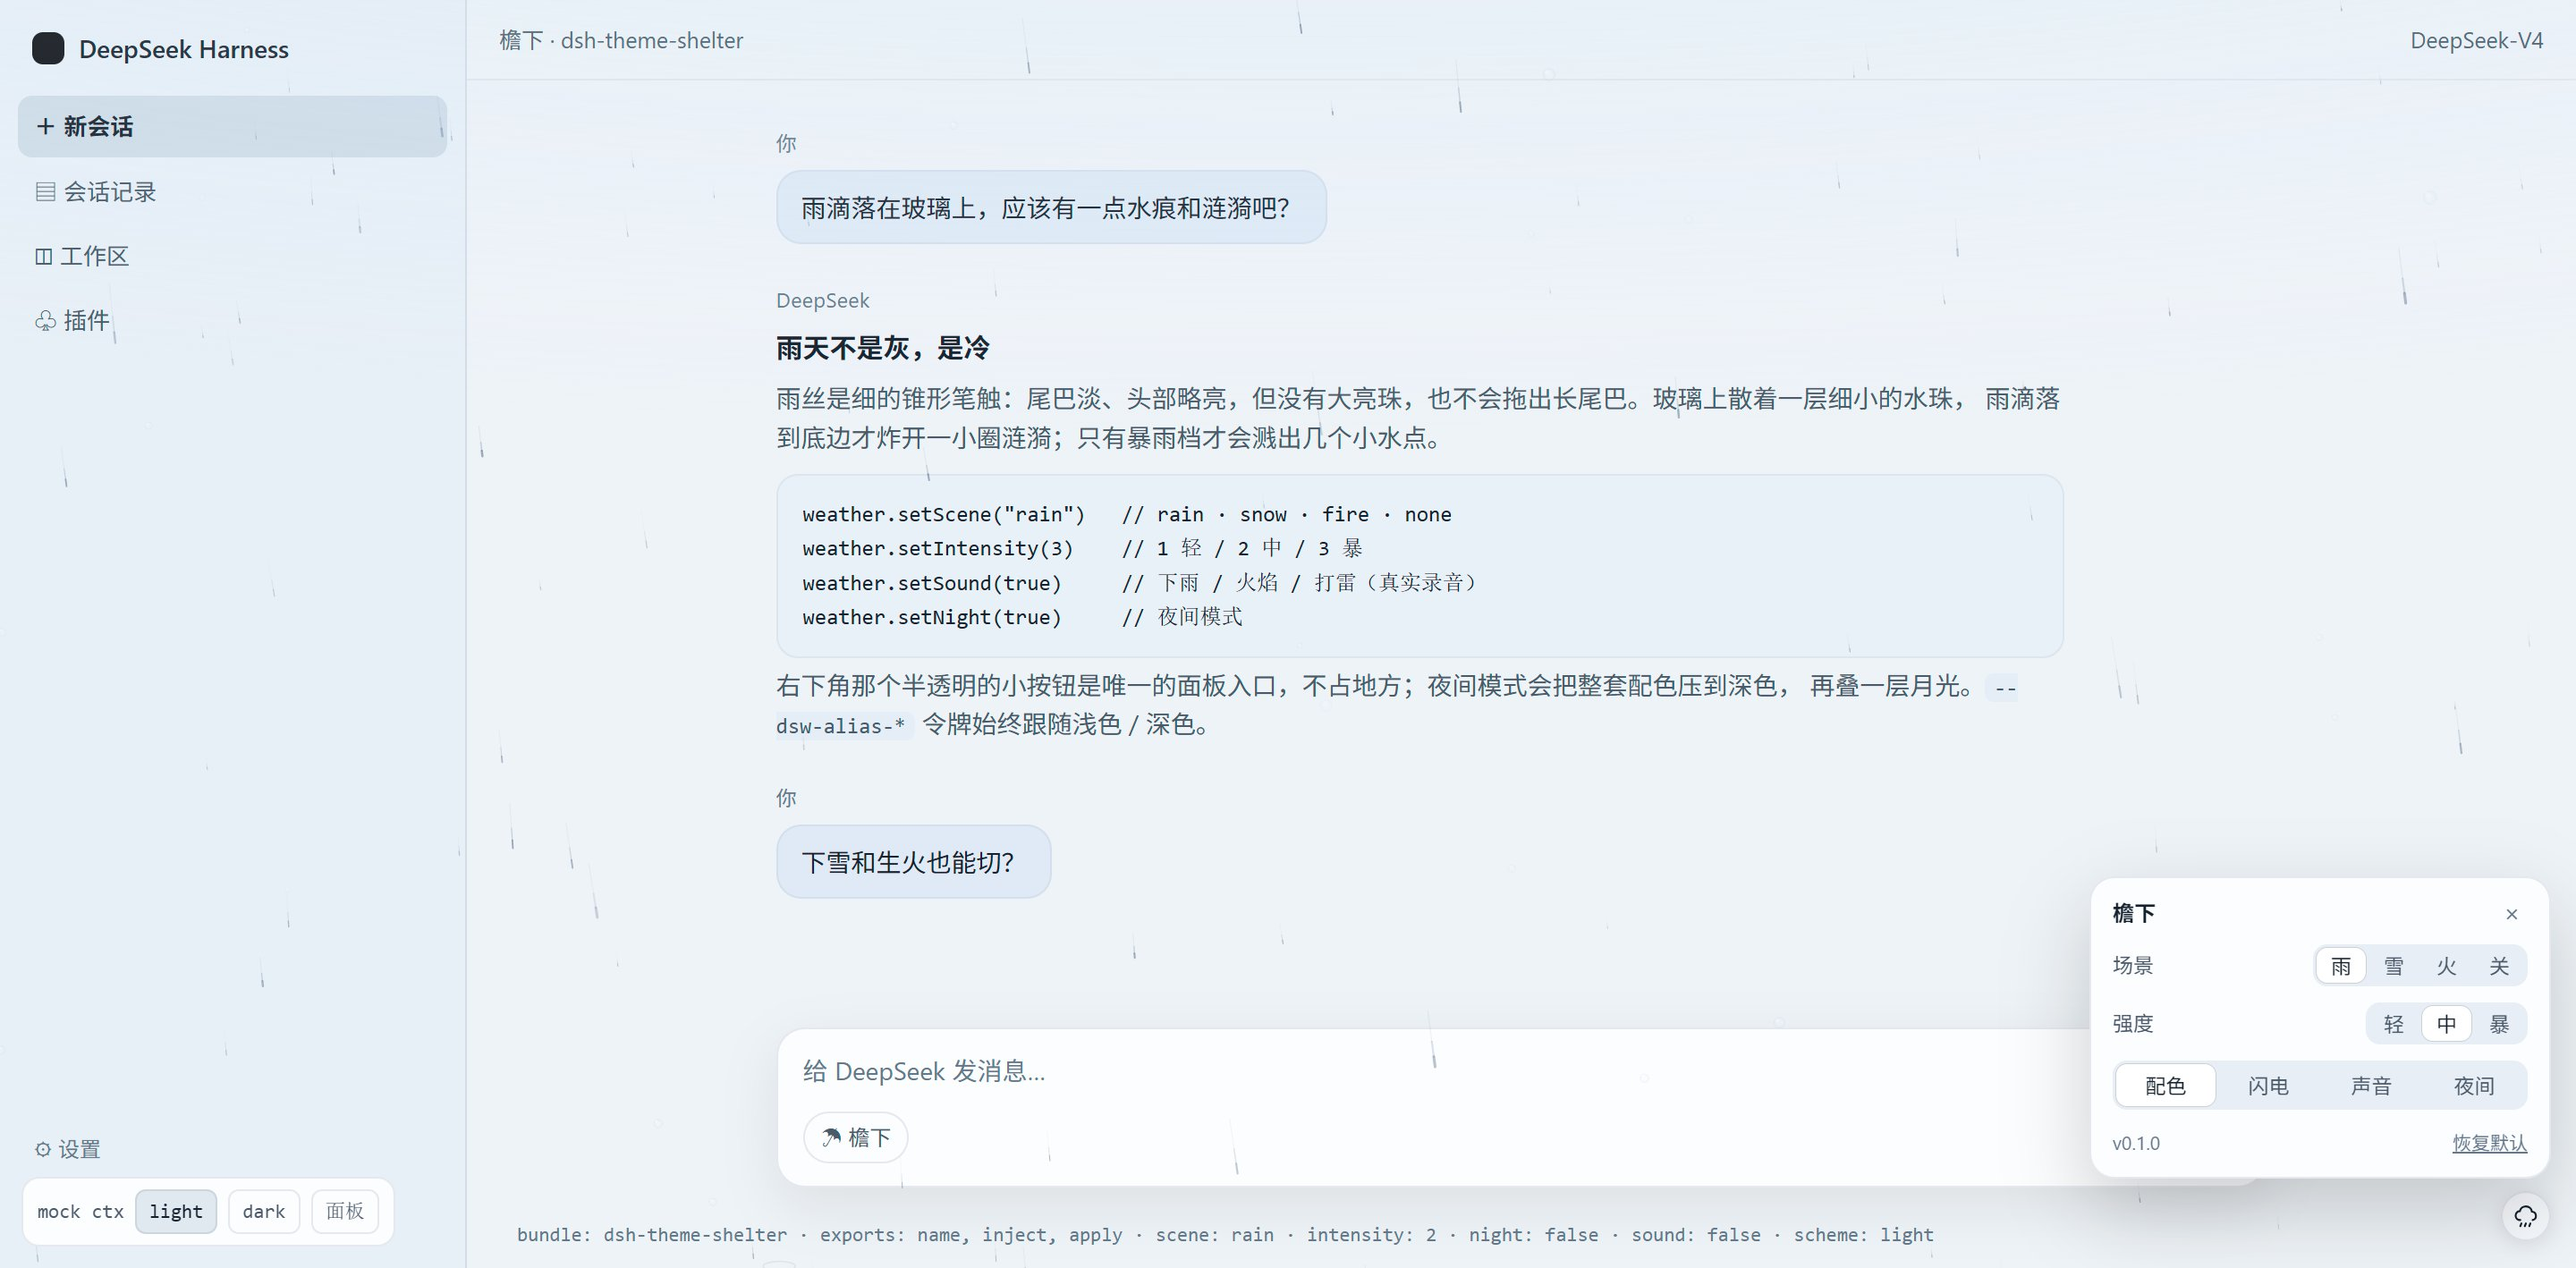
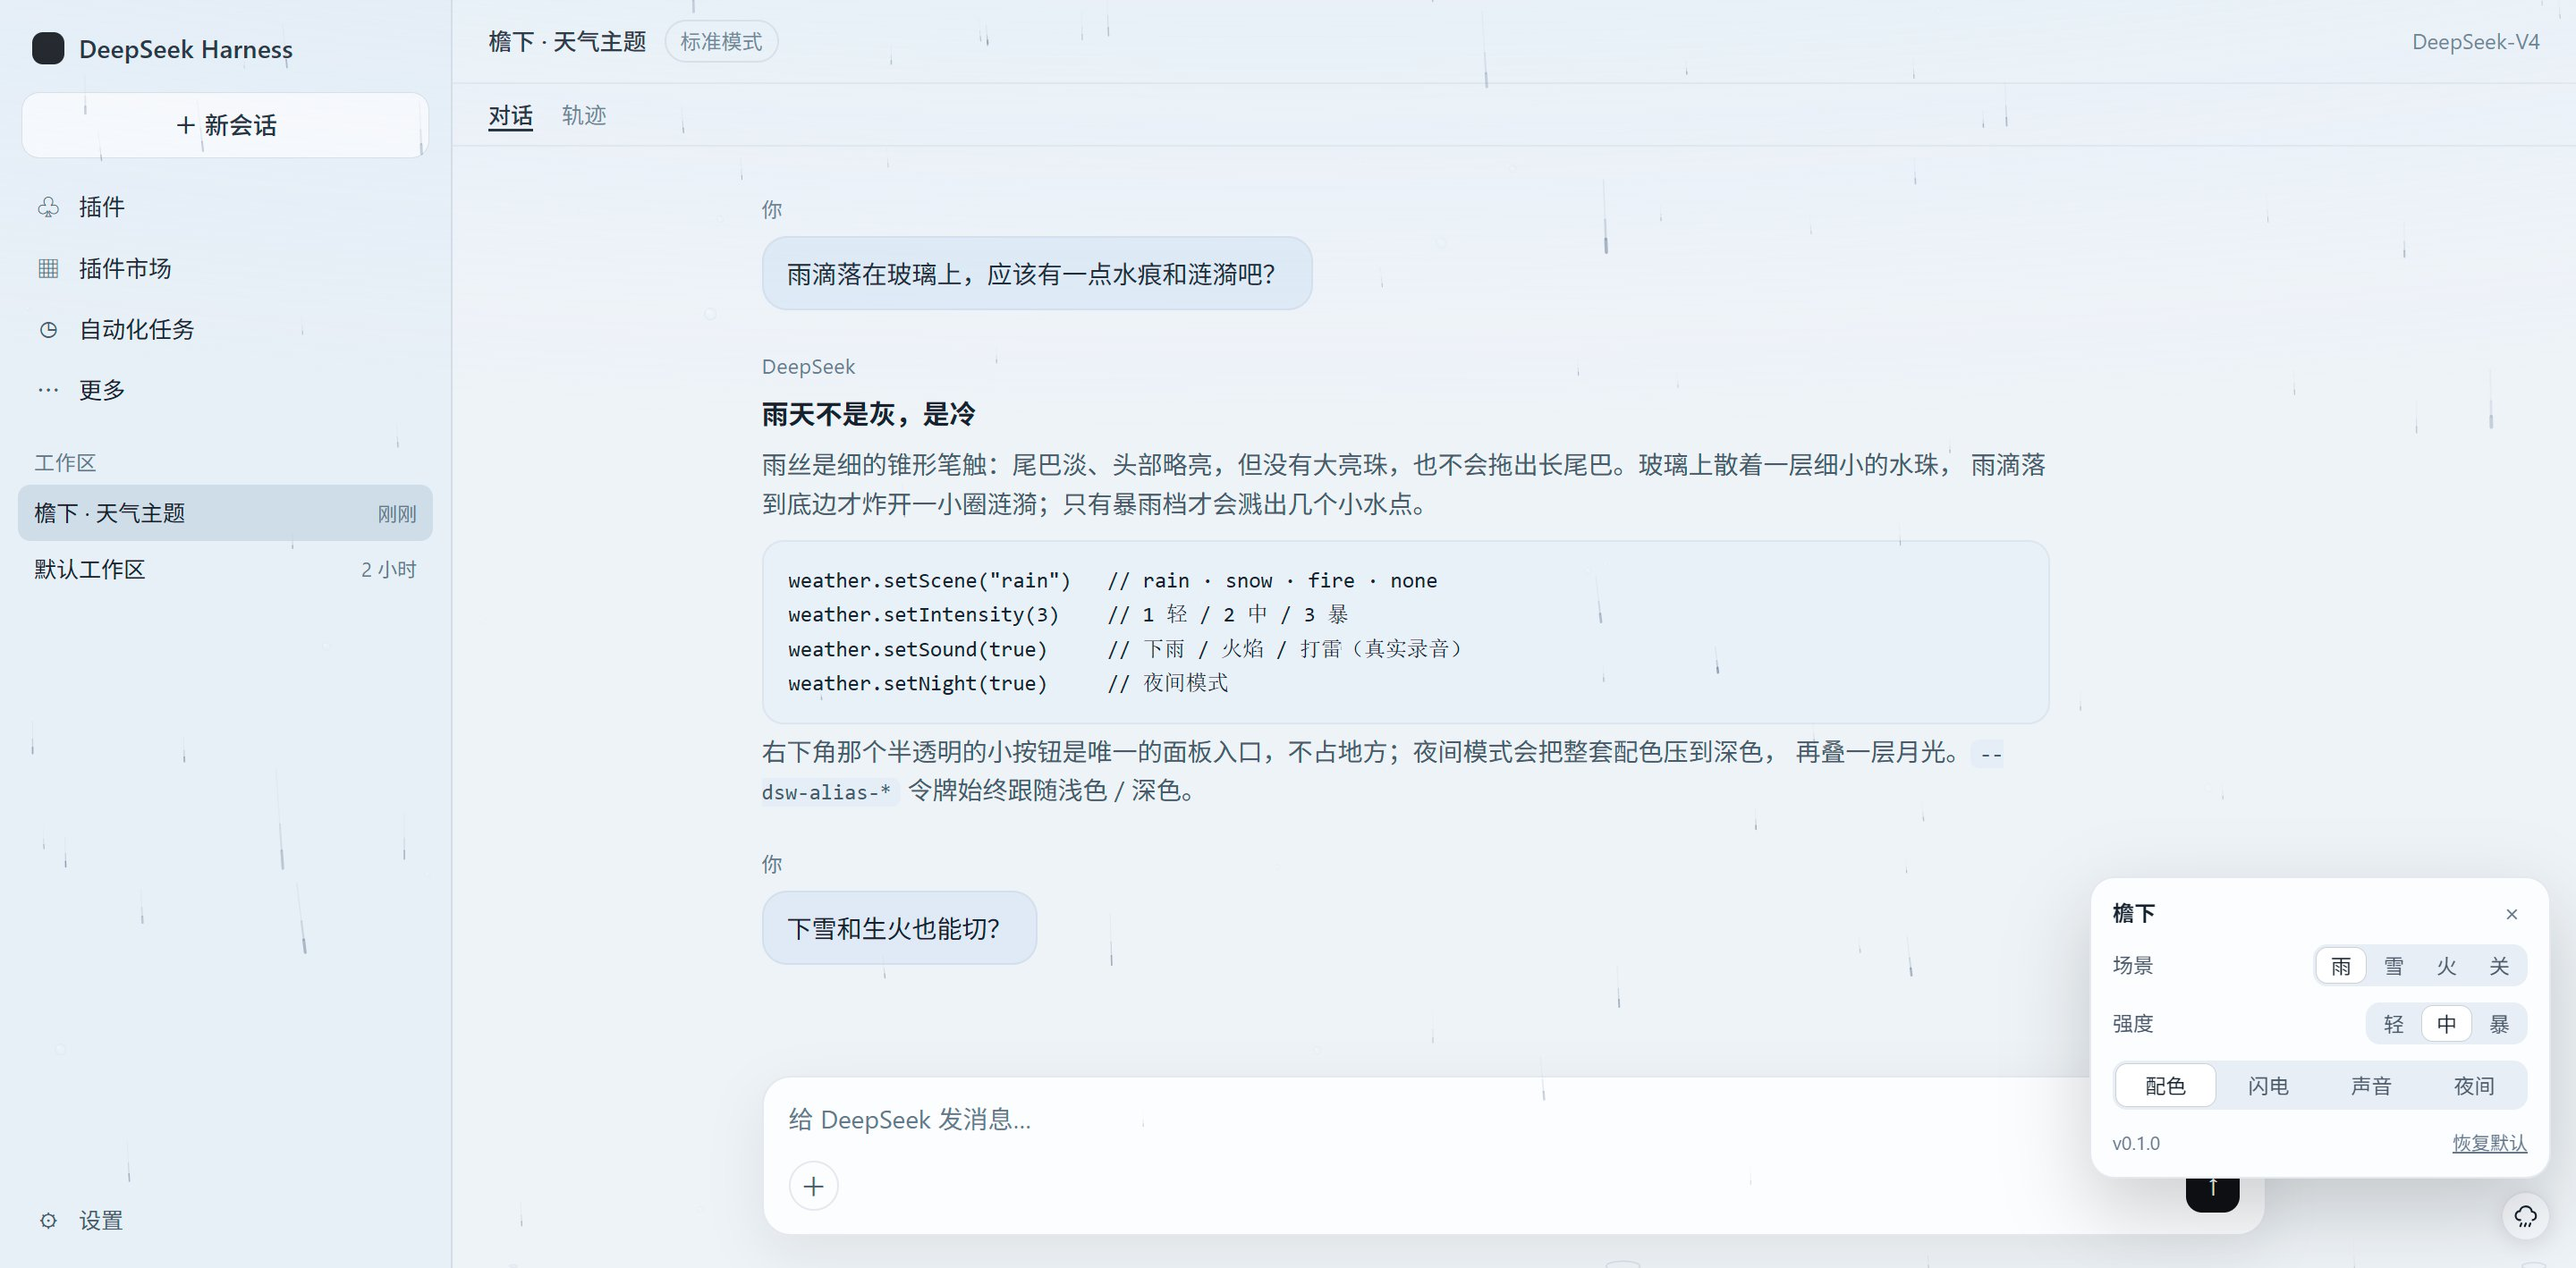
docs: shoot screenshots from the faithful shell (no mock chrome)

diff --git a/preview/preview.html b/preview/preview.html
@@ -6,7 +6,8 @@
 <style>
   /* A miniature stand-in for the DSH shell. Every surface reads the same
      --dsw-alias-* tokens the real shell reads, so the plugin's override layer
-     behaves exactly as it will inside the GUI. Defaults below are DSH's. */
+     behaves exactly as it will inside the GUI. Defaults below are DSH's.
+     Tooling chrome (scheme switches, boot line) only appears at #debug. */
   body {
     margin: 0;
     height: 100vh;
@@ -85,26 +86,57 @@
 
   .app { display: flex; height: 100vh; }
   .sidebar {
-    width: 240px; flex: none; display: flex; flex-direction: column; gap: 2px;
-    padding: 14px 10px; background: var(--dsw-specific-sidebar-fill);
+    width: 232px; flex: none; display: flex; flex-direction: column;
+    padding: 14px 10px 10px; background: var(--dsw-specific-sidebar-fill);
     border-right: 1px solid var(--dsw-alias-border-l2);
   }
-  .brand { display: flex; align-items: center; gap: 8px; padding: 2px 8px 14px; font-weight: 600; }
+  .brand { display: flex; align-items: center; gap: 8px; padding: 2px 8px 14px; font-weight: 600; letter-spacing: .01em; }
   .brand .dot { width: 18px; height: 18px; border-radius: 6px; background: var(--dsw-alias-brand-primary); }
+  .new-session {
+    display: flex; align-items: center; justify-content: center; gap: 6px; height: 36px;
+    margin: 0 2px 10px; border-radius: 10px; font-size: 13.5px; font-weight: 500;
+    background: var(--dsw-alias-bg-layer-1); border: .5px solid var(--dsw-alias-border-l3);
+    color: var(--dsw-alias-label-primary);
+  }
   .nav {
     display: flex; align-items: center; gap: 9px; padding: 7px 9px; border-radius: 8px;
-    color: var(--dsw-alias-label-secondary); font-size: 13px;
+    color: var(--dsw-alias-label-primary); font-size: 13px;
   }
-  .nav.on { background: var(--dsw-alias-interactive-bg-active); color: var(--dsw-alias-label-primary); font-weight: 600; }
-  .nav.small { font-size: 12px; color: var(--dsw-alias-label-tertiary); }
-  .side-foot { margin-top: auto; display: flex; flex-direction: column; gap: 4px; }
+  .nav .glyph { width: 16px; color: var(--dsw-alias-label-secondary); display: inline-flex; justify-content: center; }
+  .nav.on { background: var(--dsw-alias-interactive-bg-active); font-weight: 600; }
+  .group-title {
+    margin: 14px 9px 4px; font-size: 11.5px; letter-spacing: .02em;
+    color: var(--dsw-alias-label-tertiary);
+  }
+  .session {
+    display: flex; align-items: center; justify-content: space-between; gap: 8px;
+    padding: 6px 9px; border-radius: 7px; font-size: 12.5px;
+    color: var(--dsw-alias-label-primary);
+  }
+  .session.on { background: var(--dsw-alias-interactive-bg-active); }
+  .session .age { color: var(--dsw-alias-label-tertiary); font-size: 11px; }
+  .side-foot { margin-top: auto; }
+  .side-foot .nav { font-size: 12.5px; color: var(--dsw-alias-label-secondary); }
 
   .main { flex: 1; min-width: 0; display: flex; flex-direction: column; background: var(--dsw-alias-bg-base); }
   .topbar {
-    height: 44px; display: flex; align-items: center; justify-content: space-between;
-    padding: 0 18px; border-bottom: 1px solid var(--dsw-alias-border-l1);
-    color: var(--dsw-alias-label-secondary); font-size: 12.5px;
+    height: 46px; display: flex; align-items: center; gap: 10px; padding: 0 20px;
+    border-bottom: 1px solid var(--dsw-alias-border-l1); font-size: 13px;
   }
+  .topbar .title { font-weight: 500; }
+  .topbar .mode {
+    font-size: 11.5px; color: var(--dsw-alias-label-tertiary); padding: 2px 8px;
+    border-radius: 999px; border: 1px solid var(--dsw-alias-border-l2);
+  }
+  .topbar .spacer { flex: 1; }
+  .topbar .model { color: var(--dsw-alias-label-tertiary); font-size: 12px; }
+  .tabs {
+    display: flex; gap: 16px; padding: 0 20px; height: 34px; align-items: center;
+    border-bottom: 1px solid var(--dsw-alias-border-l1);
+    color: var(--dsw-alias-label-tertiary); font-size: 12.5px;
+  }
+  .tabs .on { color: var(--dsw-alias-label-primary); font-weight: 500; box-shadow: inset 0 -1.5px 0 var(--dsw-alias-label-primary); }
+
   .thread { flex: 1; overflow: auto; padding: 26px max(28px, 12vw) 8px; }
   .msg { margin-bottom: 22px; max-width: 720px; }
   .who { font-size: 11.5px; color: var(--dsw-alias-label-tertiary); margin-bottom: 6px; letter-spacing: .02em; }
@@ -126,50 +158,62 @@
   .composer {
     margin: 0 max(28px, 12vw) 18px; padding: 12px 14px; border-radius: 16px;
     background: var(--dsw-specific-input-major); border: 1px solid var(--dsw-alias-border-l2);
-    box-shadow: 0 10px 30px #00000014; color: var(--dsw-alias-label-tertiary);
+    box-shadow: 0 10px 30px #00000012; color: var(--dsw-alias-label-tertiary);
   }
-  .composer .row { display: flex; align-items: center; justify-content: space-between; margin-top: 12px; }
-  .chip {
-    font-size: 12px; padding: 4px 9px; border-radius: 999px;
-    border: 1px solid var(--dsw-alias-border-l2); color: var(--dsw-alias-label-secondary);
+  .composer .row { display: flex; align-items: center; gap: 10px; margin-top: 12px; }
+  .composer .plus {
+    width: 26px; height: 26px; border-radius: 50%; display: grid; place-items: center;
+    border: 1px solid var(--dsw-alias-border-l2); color: var(--dsw-alias-label-secondary); font-size: 15px;
   }
-  .send {
+  .composer .spacer { flex: 1; }
+  .composer .send {
     width: 30px; height: 30px; border-radius: 9px; background: var(--dsw-alias-brand-primary);
     color: var(--dsw-alias-label-primary-foreground); display: grid; place-items: center; font-size: 14px;
   }
 
-  .hud {
-    position: fixed; left: 12px; bottom: 12px; z-index: 2147480010;
-    display: flex; align-items: center; gap: 6px; padding: 6px 8px;
-    border-radius: 10px; background: var(--dsw-alias-bg-layer-3);
-    border: 1px solid var(--dsw-alias-border-l2); font-size: 11px;
-    color: var(--dsw-alias-label-secondary); font-family: ui-monospace, Consolas, monospace;
+  /* Tooling only: hidden unless the page is opened as #debug. */
+  .hud, .boot { display: none; }
+  body[data-debug="true"] .hud {
+    display: flex; position: fixed; left: 12px; bottom: 12px; z-index: 2147480010;
+    align-items: center; gap: 6px; padding: 6px 8px; border-radius: 10px;
+    background: var(--dsw-alias-bg-layer-3); border: 1px solid var(--dsw-alias-border-l2);
+    font: 11px/1 ui-monospace, Consolas, monospace; color: var(--dsw-alias-label-secondary);
   }
-  .hud button {
-    font: inherit; color: inherit; cursor: pointer; padding: 3px 7px; border-radius: 6px;
+  body[data-debug="true"] .hud button {
+    font: inherit; color: inherit; cursor: pointer; padding: 4px 7px; border-radius: 6px;
     border: 1px solid var(--dsw-alias-border-l2); background: transparent;
   }
-  .hud button[aria-pressed="true"] {
+  body[data-debug="true"] .hud button[aria-pressed="true"] {
     background: var(--dsw-alias-interactive-bg-active); color: var(--dsw-alias-label-primary);
   }
-  .boot { color: var(--dsw-alias-label-tertiary); font-size: 11px; padding: 0 28px 10px; font-family: ui-monospace, Consolas, monospace; }
+  body[data-debug="true"] .boot {
+    display: block; padding: 0 28px 10px; font: 11px/1.5 ui-monospace, Consolas, monospace;
+    color: var(--dsw-alias-label-tertiary);
+  }
 </style>
 </head>
 <body>
   <div class="app">
     <aside class="sidebar">
       <div class="brand"><span class="dot"></span>DeepSeek Harness</div>
-      <div class="nav on">＋ 新会话</div>
-      <div class="nav">▤ 会话记录</div>
-      <div class="nav">◫ 工作区</div>
-      <div class="nav">♧ 插件</div>
-      <div class="side-foot">
-        <div class="nav small">⚙ 设置</div>
-        <div class="nav small">☂ 檐下 · preview</div>
-      </div>
+      <div class="new-session">＋ 新会话</div>
+      <div class="nav"><span class="glyph">♧</span>插件</div>
+      <div class="nav"><span class="glyph">▦</span>插件市场</div>
+      <div class="nav"><span class="glyph">◷</span>自动化任务</div>
+      <div class="nav"><span class="glyph">⋯</span>更多</div>
+      <div class="group-title">工作区</div>
+      <div class="session on"><span>檐下 · 天气主题</span><span class="age">刚刚</span></div>
+      <div class="session"><span>默认工作区</span><span class="age">2 小时</span></div>
+      <div class="side-foot"><div class="nav"><span class="glyph">⚙</span>设置</div></div>
     </aside>
     <main class="main">
-      <div class="topbar"><span>檐下 · dsh-theme-shelter</span><span>DeepSeek-V4</span></div>
+      <div class="topbar">
+        <span class="title">檐下 · 天气主题</span>
+        <span class="mode">标准模式</span>
+        <span class="spacer"></span>
+        <span class="model">DeepSeek-V4</span>
+      </div>
+      <div class="tabs"><span class="on">对话</span><span>轨迹</span></div>
       <div class="thread">
         <div class="msg">
           <div class="who">你</div>
@@ -197,7 +241,8 @@ weather.setNight(true)     // 夜间模式</pre>
       <div class="composer">
         <div>给 DeepSeek 发消息…</div>
         <div class="row">
-          <span class="chip">☂ 檐下</span>
+          <span class="plus">＋</span>
+          <span class="spacer"></span>
           <span class="send">↑</span>
         </div>
       </div>
@@ -213,6 +258,9 @@ weather.setNight(true)     // 夜间模式</pre>
   </div>
 
 <script>
+  const debug = location.hash === '#debug';
+  if (debug) document.body.dataset.debug = 'true';
+
   /* --- A stand-in for the shell's module kernel: capture the factory. --- */
   window.__ModuleLoader__ = {
     load({ id, factory }) {
@@ -287,7 +335,6 @@ weather.setNight(true)     // 夜间模式</pre>
 
     function setScheme(next) {
       scheme = next;
-      /* Night mode owns the attribute itself; its observer restores it. */
       document.body.toggleAttribute('data-ds-dark-theme', next === 'dark');
       renderTokens();
       for (const handler of listeners) handler(theme.getTheme());
